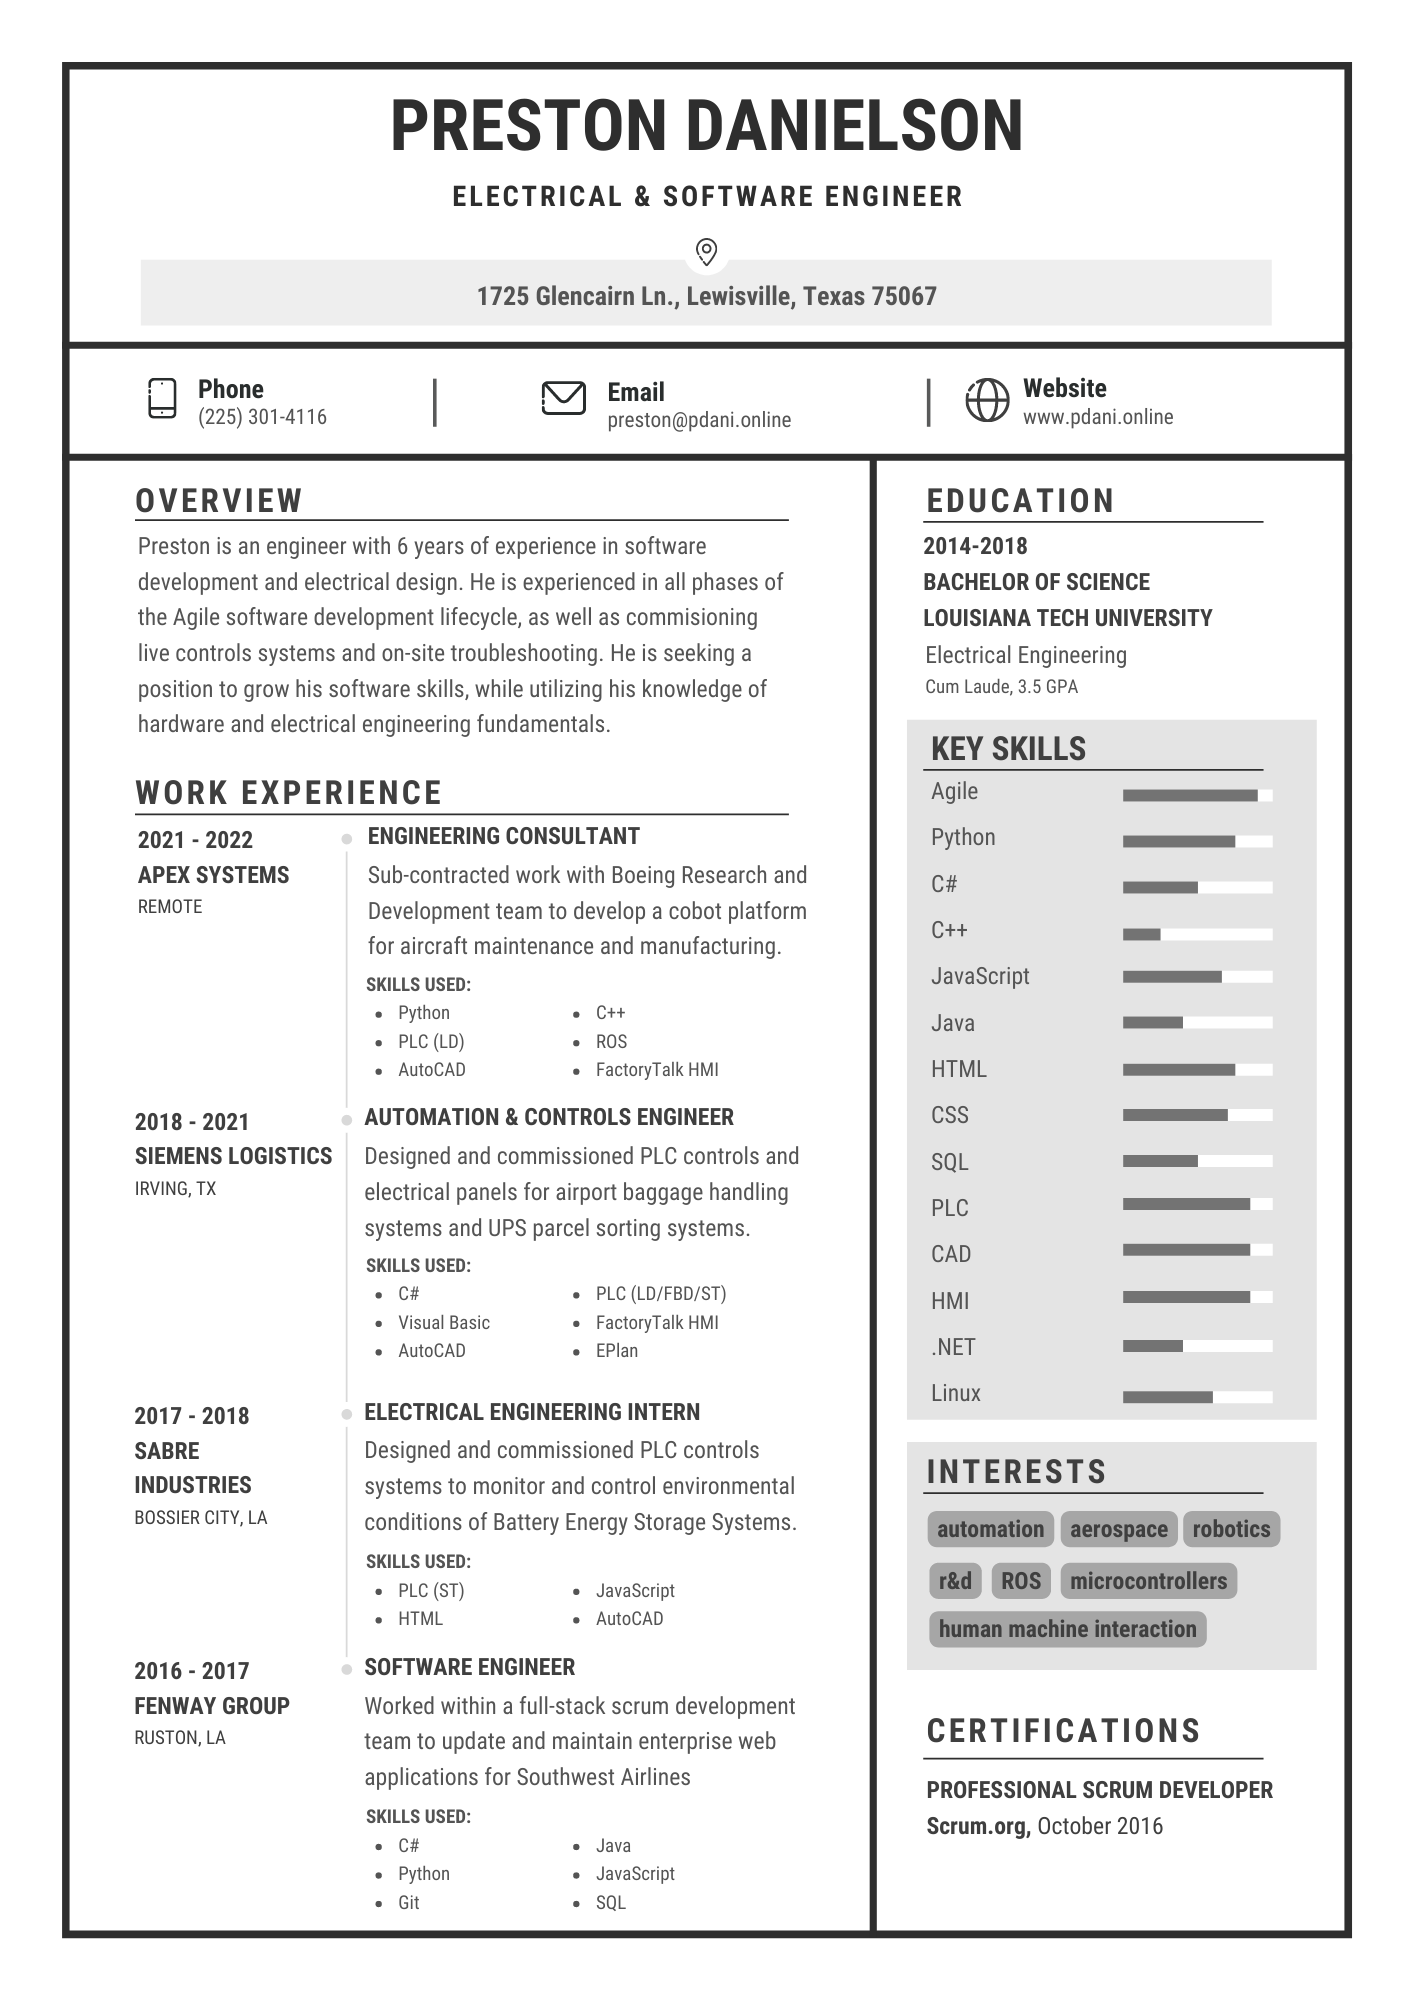
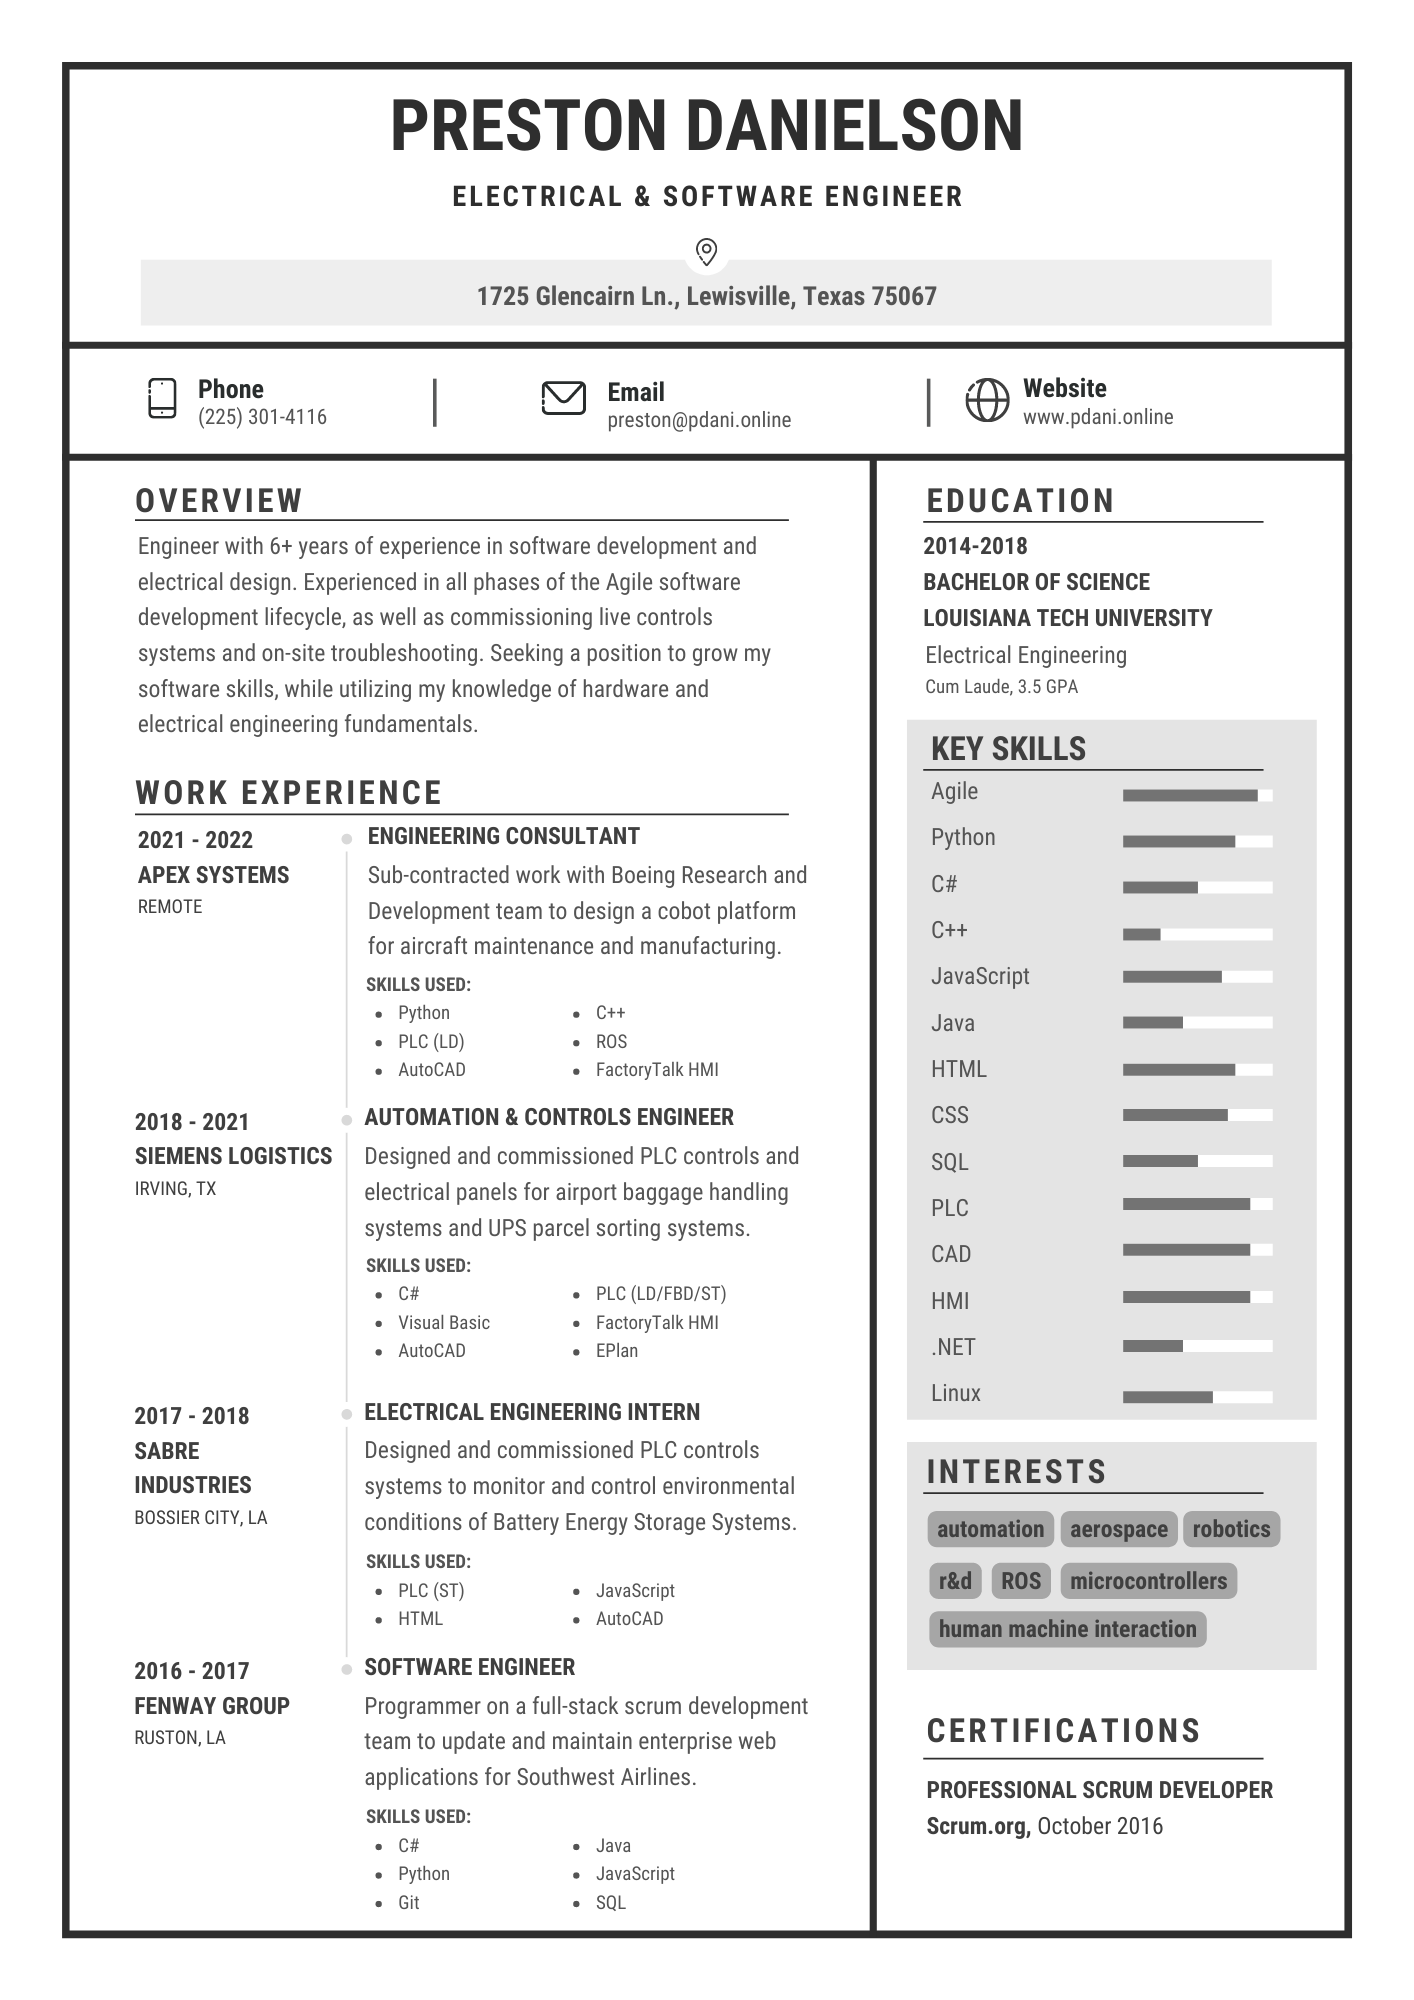
Fixed LinkedIn URL and resume typo.

diff --git a/website/templates/base.html b/website/templates/base.html
@@ -62,7 +62,7 @@
                         </a>
                     </li>
                     <li class="nav-item active">
-                        <a href="https://www.linkedin.com/in/preston-danielson-eit-1844b9103/" class="nav-link">
+                        <a href="https://www.linkedin.com/in/preston-danielson/" class="nav-link">
                             LinkedIn
                         </a>
                     </li>
